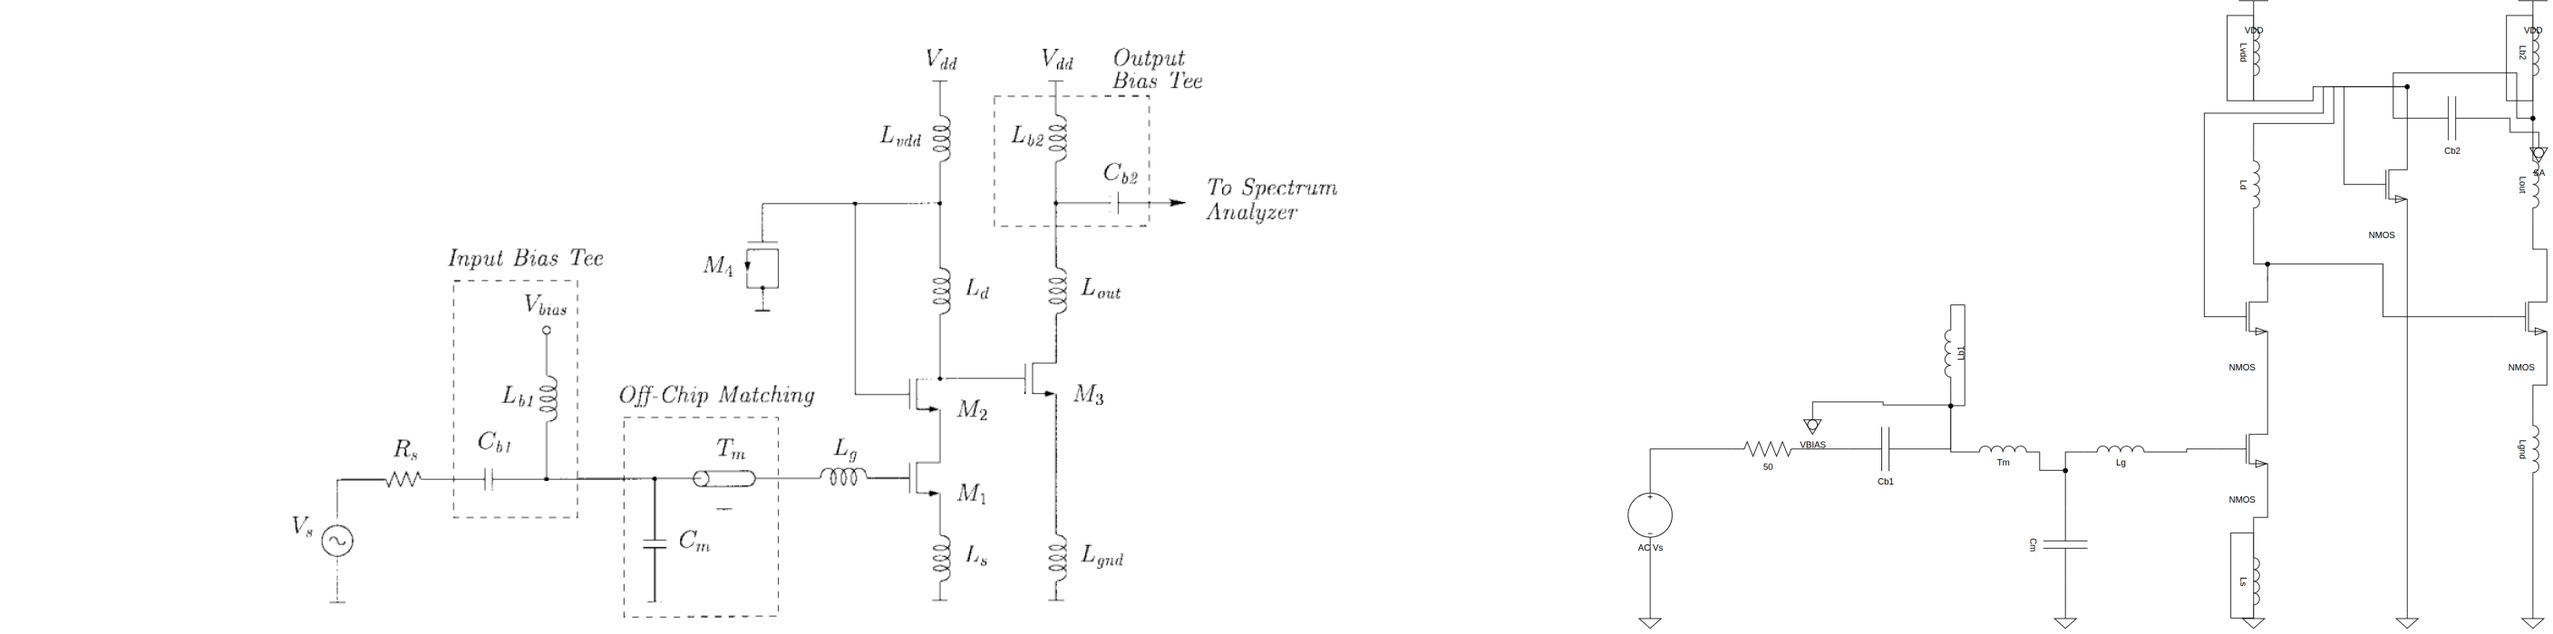
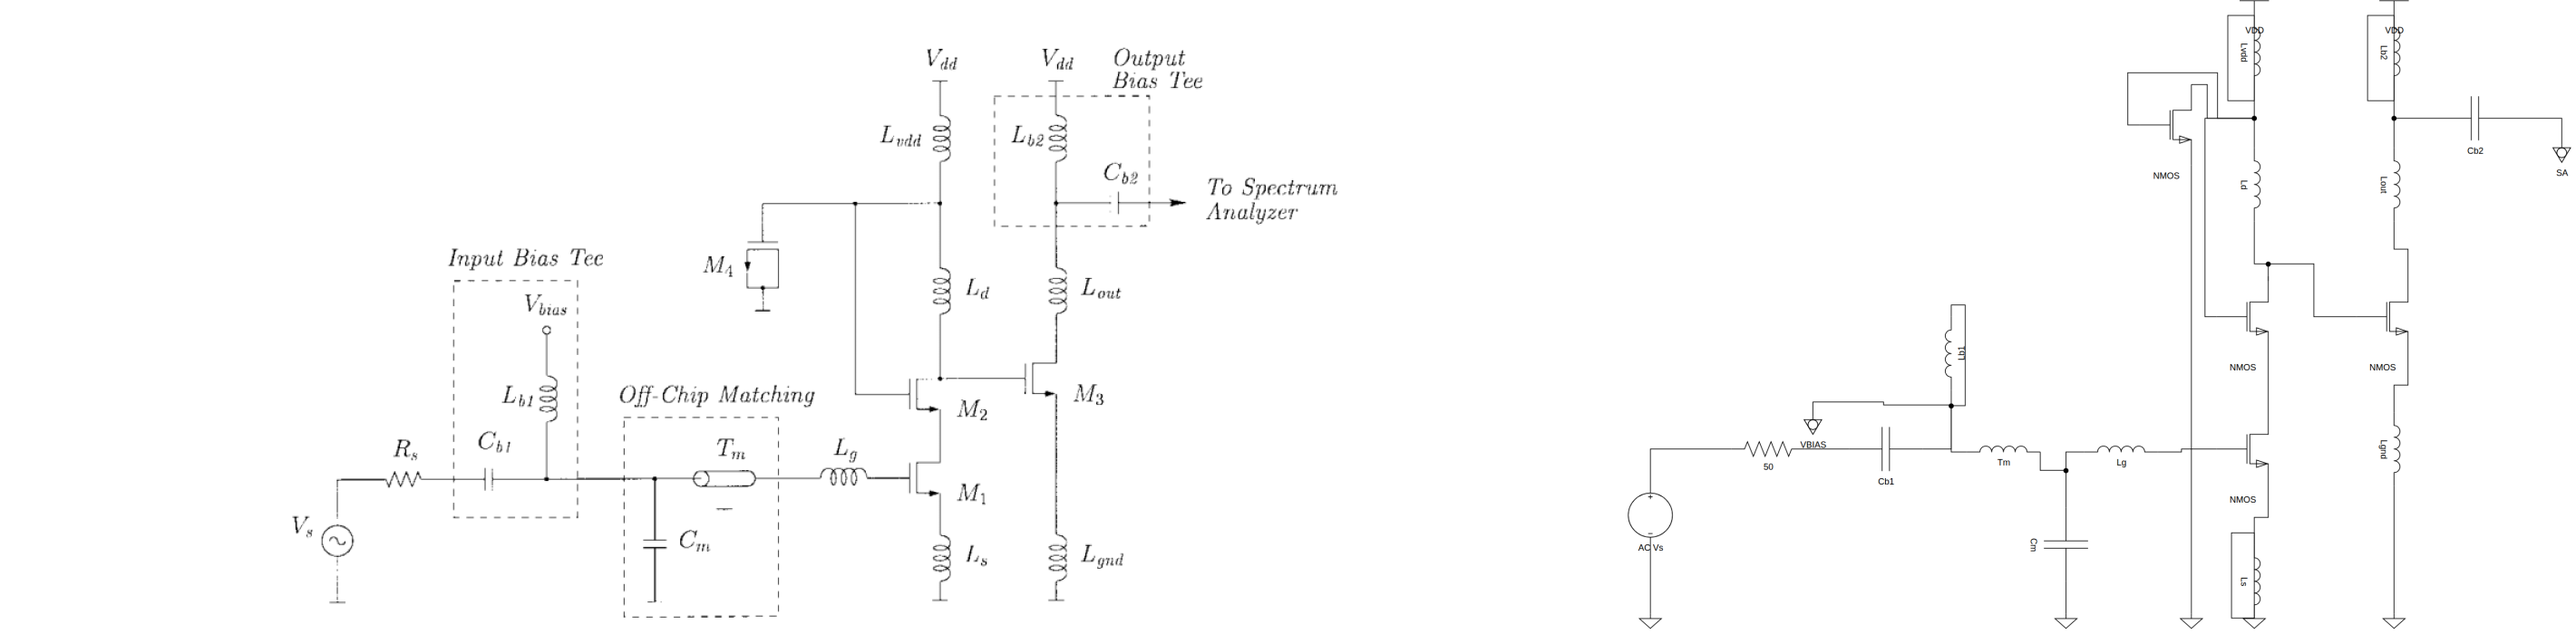
api-server: E1 iteration 2 — side diodes, stack-axis junctions, outward ports
User verdict on the generated full LNA ('nul de chez nul') drove three
new placement rules: (1) a diode-connected bias MOS hanging on a stack
net is placed BESIDE the node instead of opening a conduction column,
(2) a junction whose net has >=2 x-aligned pins stays ON that stack
axis at mid-height instead of star-pulling wires sideways, (3) a series
element leading to a port exits on the OUTER side of the schematic.
The generated Fig-13 LNA now mirrors the paper's macro-structure
(source/bias-tee/matching chain, inline cascode node, buffer stack,
Cb2->SA exiting right). LVS 18/18 unchanged. RULES.md updated with the
next candidate (local ground stub for side diodes).

diff --git a/api-server/lib/place2.js b/api-server/lib/place2.js
@@ -111,8 +111,17 @@ export function importNetlist2(model, parsed, opts = {}) {
       const ki = info.get(k.ref);
       return ki != null && ki.bot === net;
     }).length;
-    const shared = below.filter((c) => parentsOf(info.get(c.ref).top) > 1);
-    const solo = below.filter((c) => !shared.includes(c));
+    // diode de polarisation accrochée au net (D=G=net, S=0) : accolée à
+    // CÔTÉ du nœud, pas dans une colonne de conduction (règle E1/Fig.13)
+    const sideDiodes = below.filter((c) => (c.prefix === 'M' || c.prefix === 'Q') &&
+      c.nodes[0] === c.nodes[1] && info.get(c.ref).bot === '0');
+    for (const d of sideDiodes) {
+      slots.set(d.ref, { col: col - 0.55, level: level + 0.55 });
+      unplaced.delete(d.ref);
+    }
+    const rest = below.filter((c) => !sideDiodes.includes(c));
+    const shared = rest.filter((c) => parentsOf(info.get(c.ref).top) > 1);
+    const solo = rest.filter((c) => !shared.includes(c));
     let k = 0;
     for (const c of solo) {
       place(c.ref, k === 0 ? col : nextCol++, level + 1);
@@ -409,9 +418,12 @@ export function importNetlist2(model, parsed, opts = {}) {
     const empty0 = anchors[0].n === 0, empty1 = anchors[1].n === 0;
     if (empty0 !== empty1) {
       // élément série vers l'extérieur (l'autre net deviendra un port) :
-      // posé horizontalement à gauche du pin côté circuit, à sa hauteur
+      // posé horizontalement du côté EXTÉRIEUR du schéma, à hauteur du pin
       const a = empty0 ? anchors[1] : anchors[0];
-      cx = a.x - 60 - shape.w / 2;
+      const centers = [...placed.values()].map((v) => v.x + v.w / 2);
+      const mid = centers.length ? (Math.min(...centers) + Math.max(...centers)) / 2 : a.x;
+      const dir = a.x >= mid ? 1 : -1;
+      cx = a.x + dir * (60 + shape.w / 2);
       cy = a.y;
     } else {
       cx = (anchors[0].x + anchors[1].x) / 2;
@@ -484,8 +496,22 @@ export function importNetlist2(model, parsed, opts = {}) {
       }).length;
       const nCols = new Set(pts.map((q) => Math.round((q.x - P.x0) / P.colW))).size;
       const isBus = gateCount >= 2 && nCols >= 3;
+      // axe vertical dominant (pile) : si >=2 pins partagent le même x,
+      // la jonction reste SUR cet axe, entre eux
+      const byX = new Map();
+      for (const q of pts) {
+        const key = Math.round(q.x / 5) * 5;
+        if (!byX.has(key)) byX.set(key, []);
+        byX.get(key).push(q);
+      }
+      const axis = [...byX.entries()].find(([, l]) => l.length >= 2);
+      if (axis != null && !isBus) {
+        const ys = axis[1].map((q) => q.y).sort((a, b) => a - b);
+        snap = { x: axis[1][0].x, y: 0 };
+        cy = (ys[0] + ys[ys.length - 1]) / 2;
+      }
       // net de miroir NON-bus : jonction ancrée sur le drain de la diode
-      const diode = isBus ? null : comps.find((k) => (k.prefix === 'M' || k.prefix === 'Q') &&
+      const diode = (isBus || axis != null) ? null : comps.find((k) => (k.prefix === 'M' || k.prefix === 'Q') &&
         k.nodes[0] === net && k.nodes[1] === net && placed.has(k.ref));
       if (diode != null) {
         const di = info.get(diode.ref);

diff --git a/api-server/training/RULES.md b/api-server/training/RULES.md
@@ -41,3 +41,19 @@ Poids questionnés :
 - Budget E1 : crossings 54, excess_bend 43, too_close 30 → tout pointe l'étoile
   du nœud cascode (Lvdd+Ld+M4+gate M2). Règle candidate suivante : nœud de
   polarisation cascode = rail court horizontal au-dessus de la pile, M4 accolé.
+
+### E1 (itération 2) — retour utilisateur : « le LNA est nul »
+
+Règles ajoutées (implémentées) :
+6. **Diode de polarisation accolée** : un MOS diode (D=G=net, S=0) suspendu à
+   un net de pile se pose À CÔTÉ du nœud (col−0.55, niveau+0.55), jamais dans
+   une colonne de conduction.
+7. **Jonction sur l'axe de pile** : si ≥2 pins d'un net partagent le même x
+   (éléments empilés), la jonction reste SUR cet axe, à mi-hauteur — fini
+   l'étoile qui tire les fils de côté.
+8. **Sortie vers l'extérieur** : un élément série menant à un port se place du
+   côté extérieur du schéma (droite si le net est à droite du centre).
+
+Reste identifié (candidat E1-iter3) : la masse de la diode accolée descend en
+long rail qui croise la chaîne — règle « masse locale » : symbole de masse
+juste sous la source de la diode, comme le petit trait du papier.
